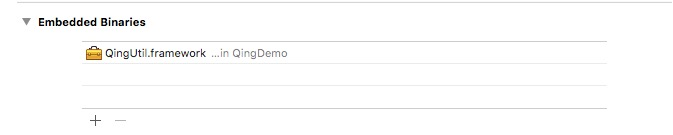
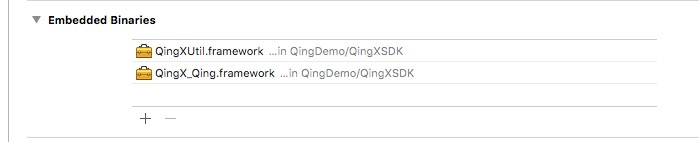
0.2.0

diff --git a/iOS-readme.md b/iOS-readme.md
@@ -28,19 +28,27 @@ CXGameKey | string | 我方提供的gamekey
 
 </br>
 
-* **将SDK QingUtil.framework 加入(拖入)工程：**
+* **将SDK加入(拖入)工程：**
 
-![](.md/add.png)
+* QingXUtil.framework
+
+* QingX_Qing.framework
+
+* QingXInfo.plist
+
+![](.md/add.jpeg)
+
+<font color=red>**注意查看Framework搜索路径是否包含SDK所在目录**</font>
 
 </br>
 
-* **Target->General->Embedded Binaries里添加QingUtil.framework：**
+* **Target->General->Embedded Binaries里添加QingXUtil.framework和QingX_Qing.framework：**
 
 ![](.md/embedded.png)
 
 
-* <font color=red>**在Info.plist添加CXGameKey，值为我方提供的gamekey【重要】</font>**
-* <font color=red>**在Info.plist添加CXGameKey，值为我方提供的gamekey【重要】</font>**
+* <font color=red>**在QingXInfo.plist添加CXGameKey，值为我方提供的gamekey【重要】</font>**
+* <font color=red>**在QingXInfo.plist添加CXGameKey，值为我方提供的gamekey【重要】</font>**
 
 
 ![](.md/plist.png)
@@ -49,12 +57,10 @@ CXGameKey | string | 我方提供的gamekey
 
 ```
 
-	<key>NSCameraUsageDescription</key>
-	<string>需要访问相机</string>
 	<key>NSPhotoLibraryAddUsageDescription</key>
-	<string>需要访问相册</string>
+	<string>访问相册以保存账号信息截图</string>
 	<key>NSPhotoLibraryUsageDescription</key>
-	<string>需要访问相册</string>
+	<string>访问相册以保存账号信息截图</string>
 	
 ```
 
@@ -65,10 +71,10 @@ CXGameKey | string | 我方提供的gamekey
 
 
 ```
-#import "QingUtil/Qing.h"
+#import "QingXUtil/QingXUtil.h"
 
 - (BOOL)application:(UIApplication *)application didFinishLaunchingWithOptions:(NSDictionary *)launchOptions {
-    [QingApi application:application didFinishLaunchingWithOptions:launchOptions];
+    [QingXUtil application:application didFinishLaunchingWithOptions:launchOptions];
     return YES;
 }
 ```
@@ -80,10 +86,11 @@ CXGameKey | string | 我方提供的gamekey
 
 ```
 // 设置登出回调
-[QingApi qingSetLogoutCallback:^(QingUserInfo *info){
-    NSLog(@"did logout %@",info);
-    NSString *uid = [info qing_user_id];
-}];
+[QingXUtil xSetLogoutBlock:^(QingX_UserInfo *info){
+        NSLog(@"did logout %@",info);
+        NSString *uid = [info qingx_user_id];
+        NSString *utoken = [info qingx_user_token];
+    }];
 ```
 			
 </br>
@@ -91,18 +98,18 @@ CXGameKey | string | 我方提供的gamekey
 * **登录【重要】**
 
 ```
-[QingApi qingShowLoginWithBlock:^(QingUserInfo *info){
-    NSLog(@"did login %@",info);
-    NSString *uid = [info qing_user_id];
-    NSString *token = [info qing_user_token];
-}];
+[QingXUtil xShowLoginWithBlock:^(QingX_UserInfo *info){
+        NSLog(@"did login %@",info);
+        NSString *uid = [info qingx_user_id];
+        NSString *token = [info qingx_user_token];
+    }];
 ``` 	
-回调QingUserInfo，参数见下面
+回调QingX_UserInfo，参数见下面
 
-QingUserInfo字段 | 类型 | 说明   
+QingX_UserInfo字段 | 类型 | 说明   
 :------- |:------- | :-----------
-qing\_user\_id | NSString | 玩家唯一标识
-qing\_user\_token | NSString | 登录票据
+qingx\_user\_id | NSString | 玩家唯一标识
+qingx\_user\_token | NSString | 登录票据
 
 **若已登陆过，下次启动SDK将会自动登录，玩家要切换账号的话需自动登录成功后点击“切换账号”进行切换**
 
@@ -111,7 +118,7 @@ qing\_user\_token | NSString | 登录票据
 * **登出**
  		
 ```
-[QingApi qingLogout];
+[QingXUtil qingLogout];
 ```
 			
 </br>
@@ -120,50 +127,54 @@ qing\_user\_token | NSString | 登录票据
 * **支付【重要】**
 
 ```
-QingOrderParams *params = [[QingOrderParams alloc] init];
-params.qing_product_name = @"test_product";        // 商品名
-params.qing_product_id = @"cx-6";                  // 商品ID（运营提供）
-params.qing_product_price = 600                    // 价格 单位:分
-params.qing_cp_order_id = @"test_order_ID";        // cp订单号
-params.qing_role_id = @"role1";                    // 角色id
-params.qing_role_name = @"role1";                  // 角色名
-params.qing_server_id = @"1";                      // 区服id
-params.qing_server_name = @"server1";              // 区服名
-params.qing_role_vip = @"1";                       // vip等级
-params.qing_role_level = @"100"                    // 角色等级
-params.qing_extends_param1 = @"extends_param1";    // 扩展透传参数1
-params.qing_extends_param2 = @"extends_param2";    // 扩展透传参数2
- 
-[QingApi qingRequestOrderWithParams:params withBlock:^(QingOrderResult *info){
-	NSLog(@"did pay %@",info);
-}];                                                // 拉起支付
+QingX_OrderParams *params = [QingX_OrderParams new];
+params.qingx_product_name = @"test_product";        // 商品名
+params.qingx_product_id = @"cx-6";                  // 商品ID（运营提供）
+params.qingx_product_price = 600;                   // 价格 单位:分
+params.qingx_cp_order_id = @"test_order_ID";        // cp订单号
+params.qingx_role_id = @"role1";                    // 角色id
+params.qingx_role_name = @"role1";                  // 角色名
+params.qingx_server_id = @"1";                      // 区服id
+params.qingx_server_name = @"server1";              // 区服名
+params.qingx_role_vip = @"1";                       // vip等级
+params.qingx_role_level = @"100";                   // 角色等级
+params.qingx_extends_param1 = @"extends_param1";    // 扩展透传参数1
+params.qingx_extends_param2 = @"extends_param2";    // 扩展透传参数2
+    
+[QingXUtil xRequestOrderWithParams:params withBlock:^(QingX_OrderResult *info){    
+    NSLog(@"did pay %@",info);
+    NSString *orderID = [info qingx_order_id];
+    NSString *cpOrderID = [info qingx_cp_order_id];
+    BOOL result = [info qingx_result];
+    NSString *message = [info qingx_message];
+}];                                                 // 拉起支付
 
 ```
-QingOrderParams字段 | 类型 | 必需 | 说明   
+QingX_OrderParams字段 | 类型 | 必需 | 说明   
 :------- |:-------|:------- | :-----------
-qing\_product\_name | NSString | 是 | 商品名
-qing\_product\_id | NSString | 是 | 商品ID（运营提供）
-qing\_product\_price | int | 是| 商品价格，<font color=red>单位：分</font>
-qing\_cp\_order\_id | NSString | 是| CP订单号
-qing\_role\_id | NSString | 是| 角色id
-qing\role\_name | NSString | 是| CP订单号
-qing\_server\_id | NSString | 是| 角色名
-qing\_server\_name | NSString | 是| 区服id
-qing\_role\_vip | NSString | 是| vip等级
-qing\_role\_level | NSString | 是| 角色等级
-qing\_extends\_param1 | NSString| 否 | 扩展透传参数1（CP用）
-qing\_extends\_param2 | NSString | 否| 扩展透传参数2（CP用）
+qingx\_product\_name | NSString | 是 | 商品名
+qingx\_product\_id | NSString | 是 | 商品ID（运营提供）
+qingx\_product\_price | int | 是| 商品价格，<font color=red>单位：分</font>
+qingx\_cp\_order\_id | NSString | 是| CP订单号
+qingx\_role\_id | NSString | 是| 角色id
+qingx\role\_name | NSString | 是| CP订单号
+qingx\_server\_id | NSString | 是| 角色名
+qingx\_server\_name | NSString | 是| 区服id
+qingx\_role\_vip | NSString | 是| vip等级
+qingx\_role\_level | NSString | 是| 角色等级
+qingx\_extends\_param1 | NSString| 否 | 扩展透传参数1（CP用）
+qingx\_extends\_param2 | NSString | 否| 扩展透传参数2（CP用）
 
 **<font color=red>使用IAP支付时，如果不传商品ID，或者商品ID没传对，会按价格匹配IAP计费点进行支付</font>**
 
-支付回调QingOrderResult见下表
+支付回调QingX_OrderResult见下表
 	
 QingOrderResult字段 | 类型 | 说明
 :------- |:------- | :-----------
-qing\_order\_id | NSString | 平台订单号
-qing\_cp\_order\_id | NSString | CP订单号
-qing\_result | BOOL | 支付结果，是否成功
-qing_message | NSString | 支付结果信息
+qingx\_order\_id | NSString | 平台订单号
+qingx\_cp\_order\_id | NSString | CP订单号
+qingx\_result | BOOL | 支付结果，是否成功
+qingx_message | NSString | 支付结果信息
 <font color=gray>qing\_state</font> | <font color=gray>int</font> | <font color=gray>支付状态，已弃用</font>
 
 
@@ -172,24 +183,41 @@ qing_message | NSString | 支付结果信息
 * **接入application系列接口【重要】**
 
 ```
+- (BOOL)application:(UIApplication *)application openURL:(NSURL *)url sourceApplication:(NSString *)sourceApplication annotation:(id)annotation
+{
+    [QingXUtil application:application openURL:url sourceApplication:sourceApplication annotation:annotation];    
+    return YES;
+}
+
+- (BOOL)application:(UIApplication *)application handleOpenURL:(NSURL *)url {
+    [QingXUtil application:application openURL:url sourceApplication:nil annotation:nil];    
+    return YES;
+}
+
+- (BOOL)application:(UIApplication *)app openURL:(NSURL *)url options:(NSDictionary<UIApplicationOpenURLOptionsKey, id> *)options
+{
+    [QingXUtil application:app openURL:url sourceApplication:nil annotation:nil];
+    return YES;
+}
+
 - (void)applicationWillResignActive:(UIApplication *)application {
-    [QingApi applicationWillResignActive:application];
+    [QingXUtil applicationWillResignActive:application];
 }
 
 - (void)applicationDidEnterBackground:(UIApplication *)application {
-    [QingApi applicationDidEnterBackground:application];
+    [QingXUtil applicationDidEnterBackground:application];
 }
 
 - (void)applicationWillEnterForeground:(UIApplication *)application {
-    [QingApi applicationWillEnterForeground:application];
+    [QingXUtil applicationWillEnterForeground:application];
 }
 
 - (void)applicationDidBecomeActive:(UIApplication *)application {
-    [QingApi applicationDidBecomeActive:application];
+    [QingXUtil applicationDidBecomeActive:application];
 }
 
 - (void)applicationWillTerminate:(UIApplication *)application {
-    [QingApi applicationWillTerminate:application];
+    [QingXUtil applicationWillTerminate:application];
 }
 ```
 
@@ -212,7 +240,7 @@ qing_message | NSString | 支付结果信息
 
 ![](.md/imagenotfound.png)
 	
-解决方法：**General->embedded binaries里添加QingUtil.framework**
+解决方法：**General->embedded binaries里添加QingXUtil.framework和QingX_Qing.framework**
 
 </br>
 
@@ -220,7 +248,7 @@ qing_message | NSString | 支付结果信息
 
 ![](.md/gamekey.jpeg)
 	
-解决方法：**Info.plist里添加键值CXGameKey，值为我方提供的gamekey**
+解决方法：**QingXInfo.plist里添加键值CXGameKey，值为我方提供的gamekey**
 
 </br>
 

diff --git a/changelog.md b/changelog.md
@@ -26,3 +26,9 @@
 * 删除初始化接口，改didFinishLauhching里获取plist里的gamekey初始化
 * 增加生命周期接口
 * 支付接口增加玩家角色信息采集
+
+##v0.2.0       <font size = 2>2018年5月5日 </font>
+
+* 整合聚合SDK
+* 增加客户端防刷机制
+* 增加Keychain
